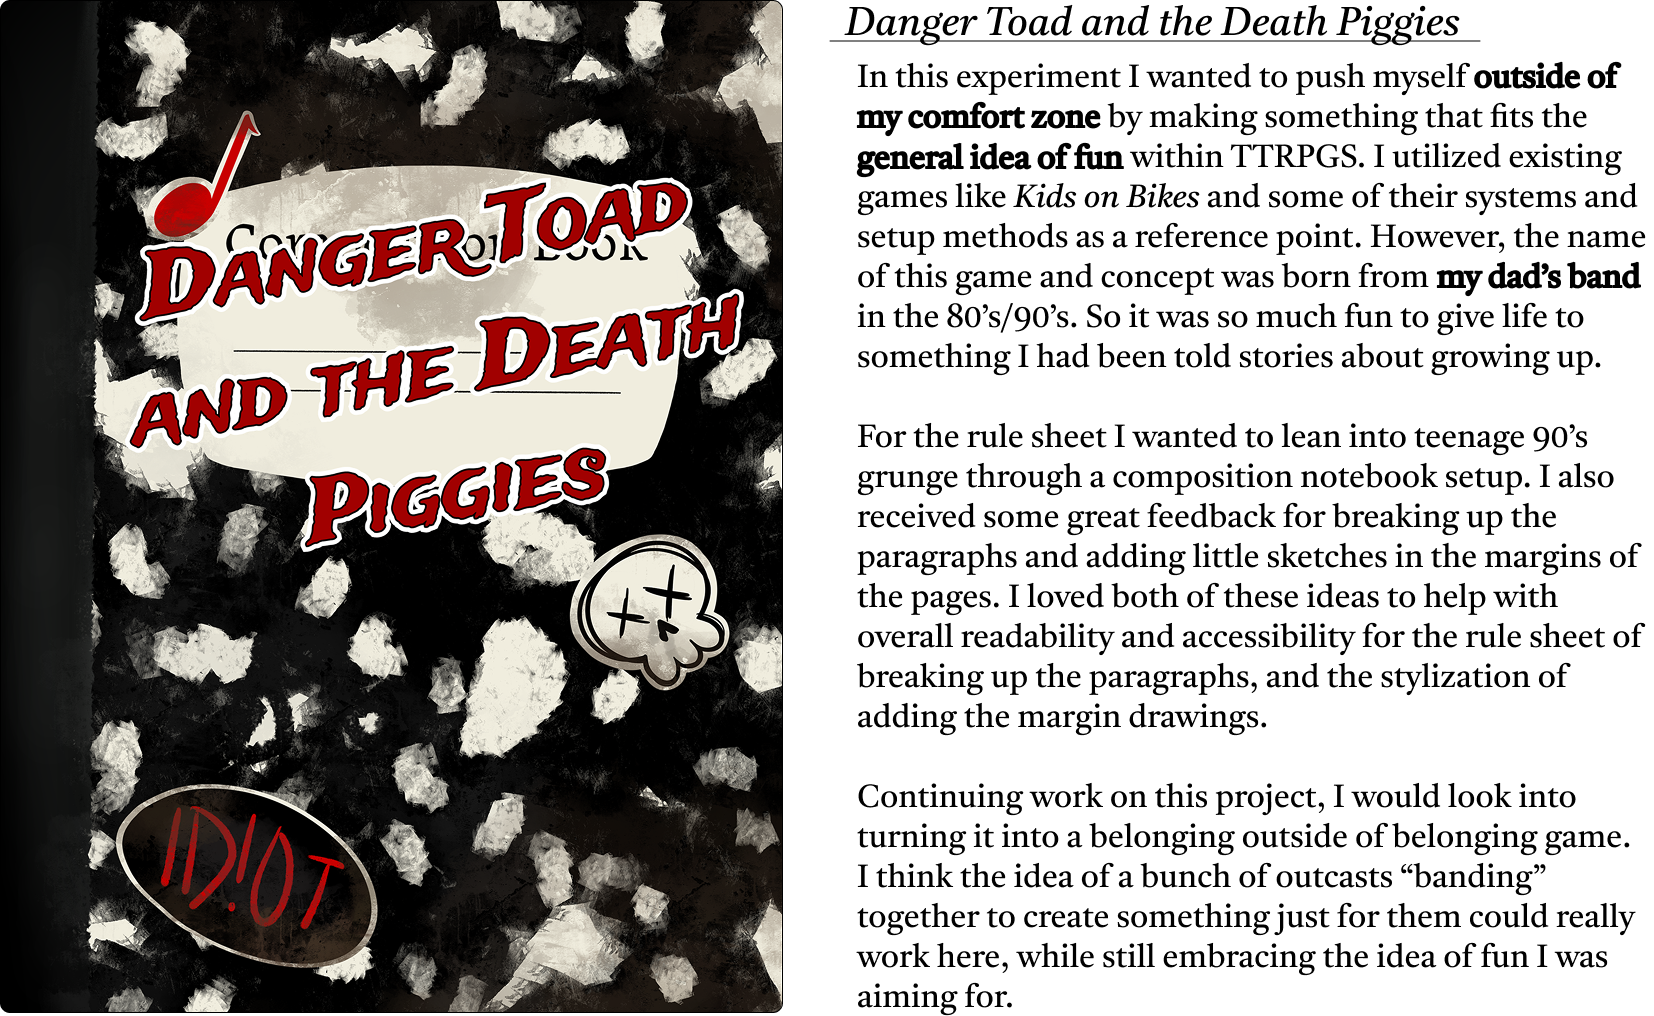
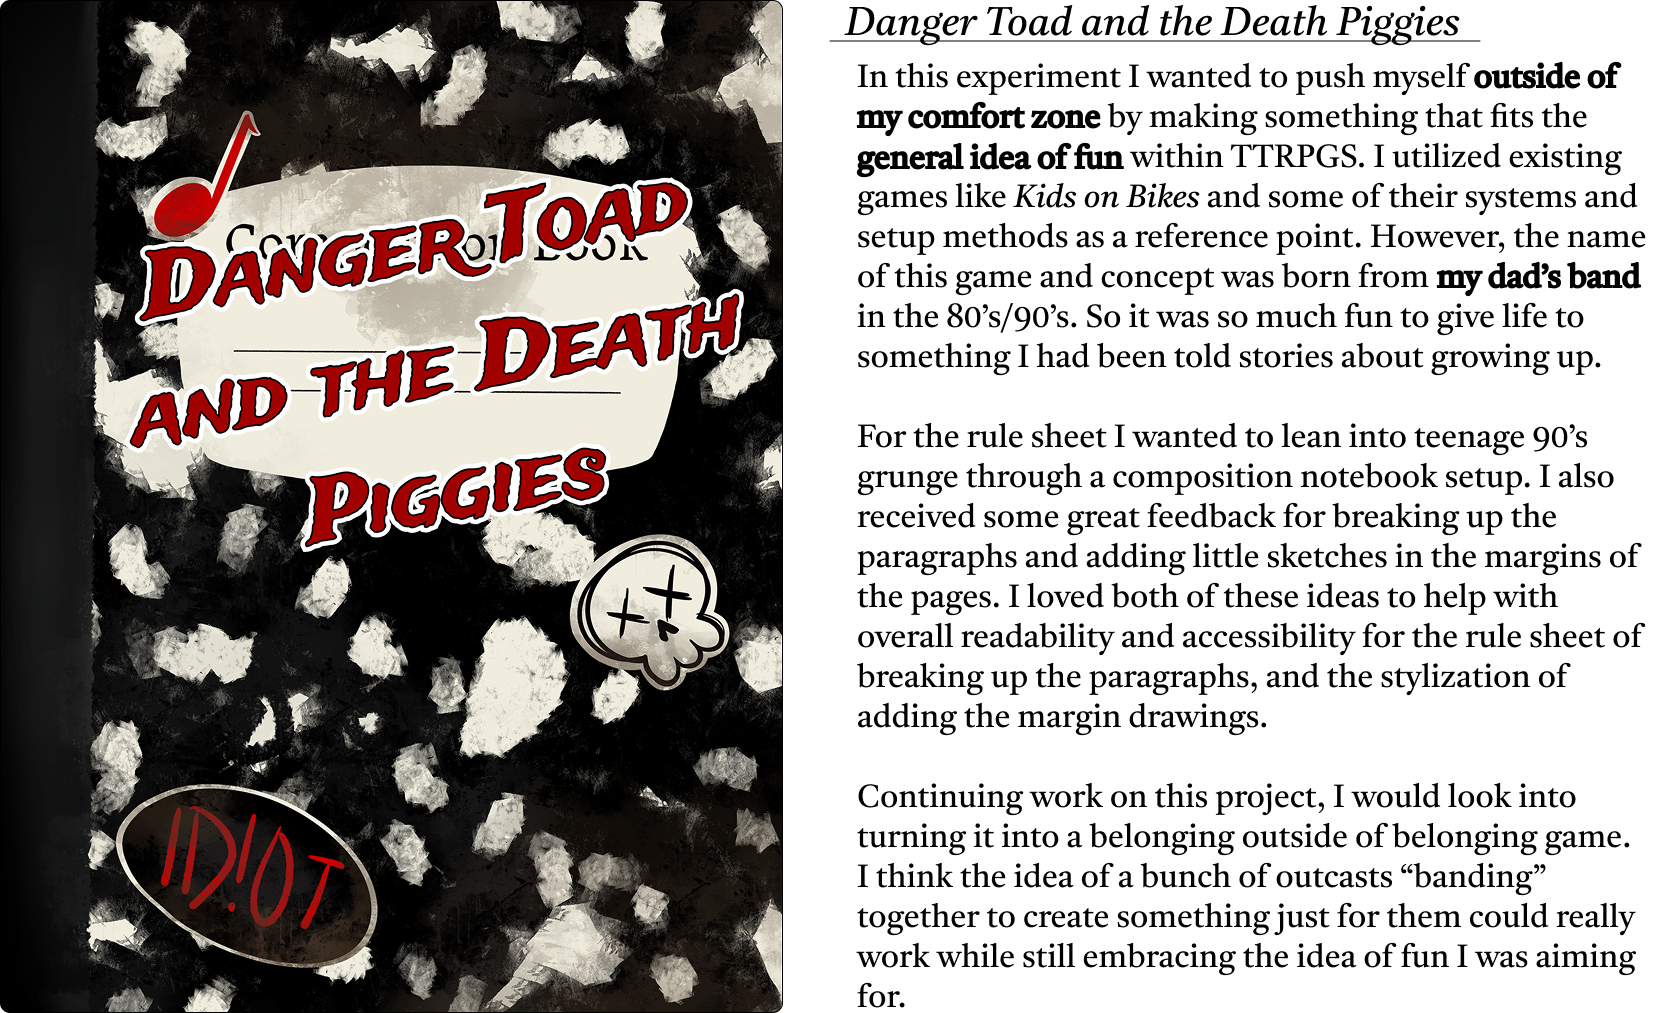
wording changes and made contact button link to carrd

diff --git a/Projects/index.html b/Projects/index.html
@@ -27,7 +27,7 @@
 
         <div class = "mainContent">
             <div class = "main">
-                <img src="../Resources/ProjectText.png" width="800" height="30" alt="Game Projects - Focusing on UI/UX Design and Implementation, Programming, and Iteration">
+                <img src="../Resources/ProjectText.png" width="850" height="30" alt="Game Projects - Focusing on UI/UX Design and Implementation, Programming, and Iteration">
                 <a href="https://consistentlynervous.github.io/Projects/MoralOptics/"><img src="../Resources/Moral Optics.png" alt="Moral Optics Project"></a>
                 <a href="https://consistentlynervous.github.io/Projects/Masked/"><img src="../Resources/Masked.png" alt="Masked Project"></a>
                 <a href="https://consistentlynervous.github.io/Projects/DevilsTango/"><img src="../Resources/Devils Tango.png" alt="The Devil's Tango Project"></a>

diff --git a/Contact/index.html b/Contact/index.html
@@ -27,6 +27,7 @@
 
         <div class = "mainContent">
             <img src="../Resources/ContactInfo.png" alt="Logo">
+            <a href="https://lucy-gold.carrd.co/"><img src="../Resources/ContactInfo.png" alt="Link to Contact Information"></a>
         </div>
     </body>
 </html>
